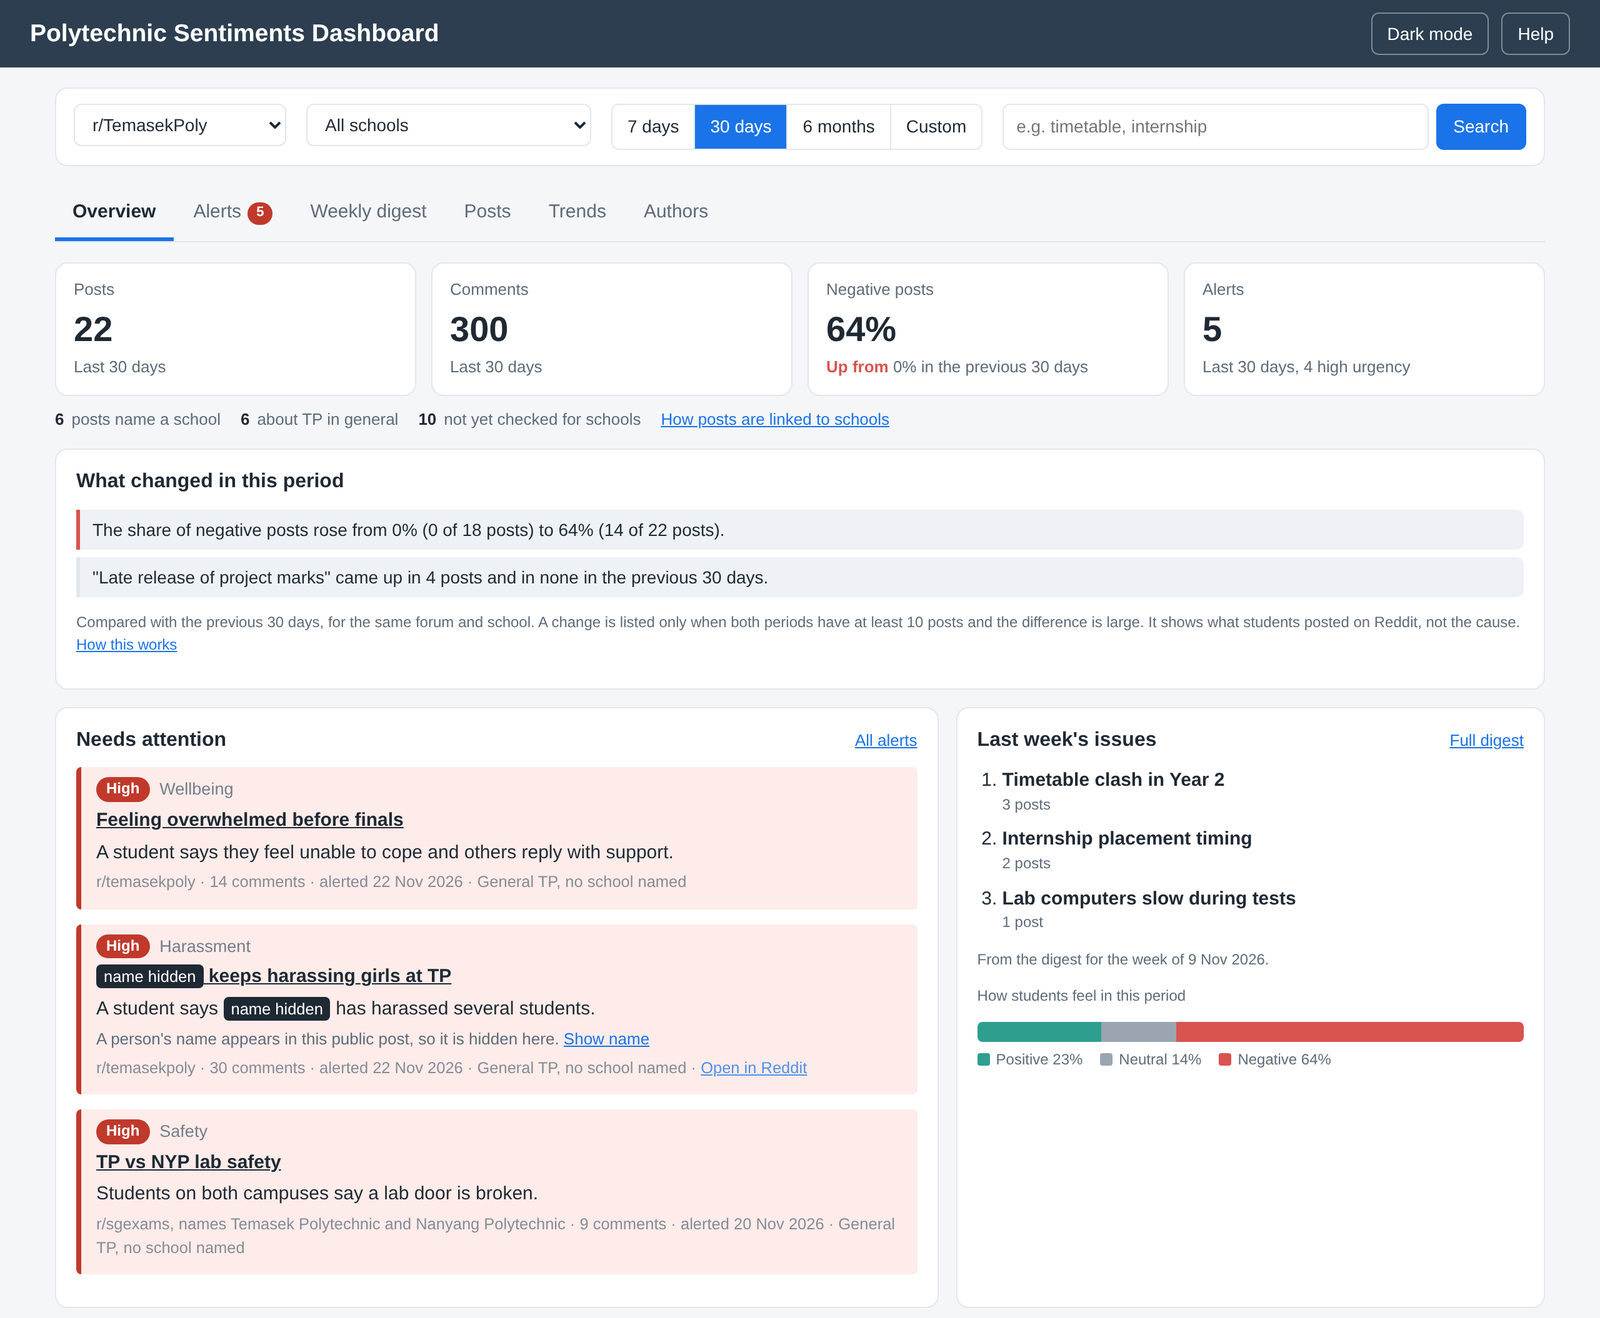
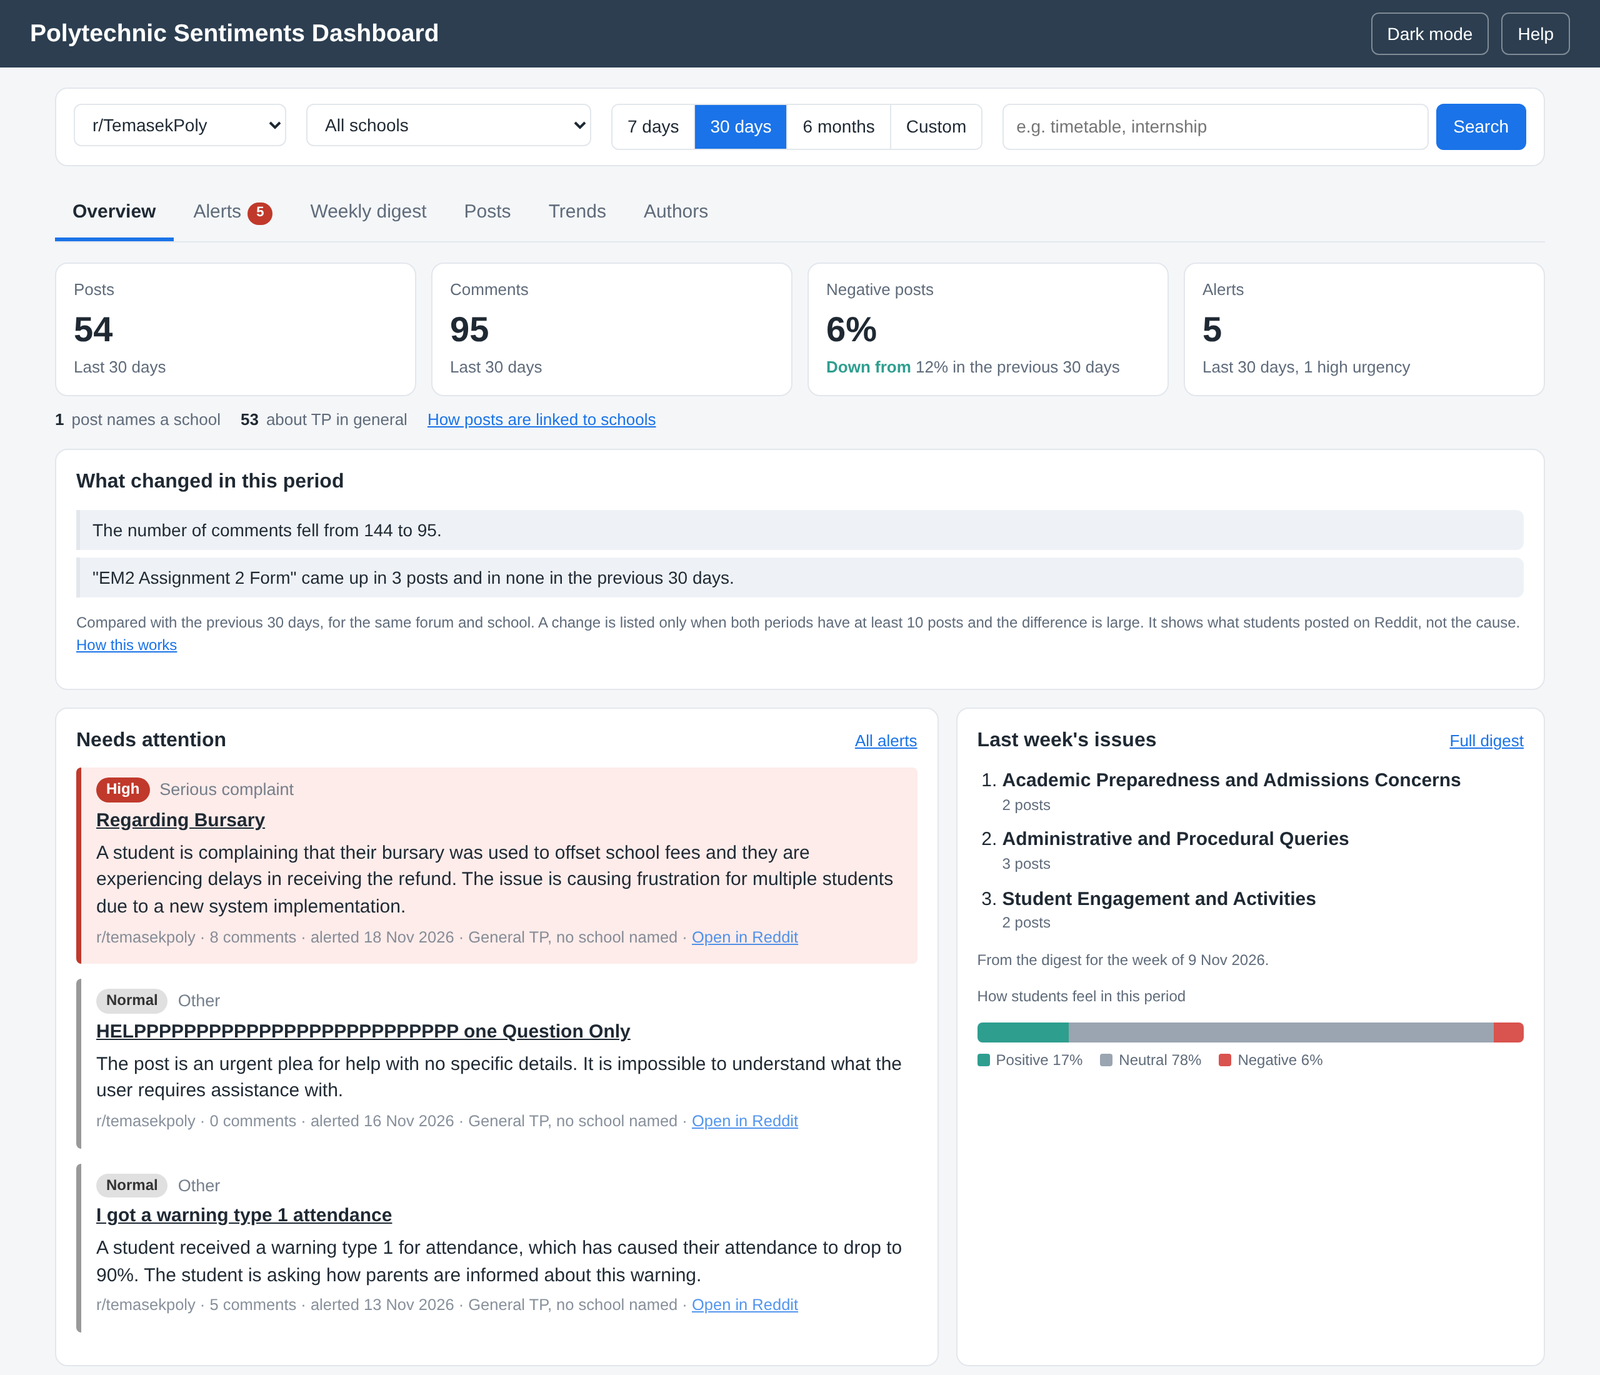
Help page: real screenshots and use by other polytechnics
The two pictures now show the live dashboard (r/TemasekPoly, 22 Nov 2026),
with the Reddit username blurred in the post panel. The page states that
the other polytechnics can use the dashboard, and how r/SGExams posts count.

Claude-Session: https://claude.ai/code/session_011AhNYgVDu8u4xkzmu5nZYU

diff --git a/about.html b/about.html
@@ -110,7 +110,7 @@
       <a href="#digest">Weekly digest</a>
       <a href="#post-view">Reading a post</a>
       <a href="#other-tabs">Posts, Trends and Authors</a>
-      <a href="#other-polys">Other polytechnics</a>
+      <a href="#other-polys">Other polytechnics and r/SGExams</a>
       <a href="#data">How the data is collected</a>
       <a href="#limits">Points to note</a>
     </nav>
@@ -122,6 +122,7 @@
       <section class="ui-card" id="about">
         <h2>What the dashboard is</h2>
         <p>The dashboard collects posts and comments once a day from selected Reddit forums relating to Singapore’s polytechnics. AI rates the sentiment of each post and comment, and the dashboard shows the results. It helps staff find posts and issues that may need attention.</p>
+        <p>The dashboard is not only for Temasek Polytechnic. It also covers the forums of Nanyang, Republic, Singapore and Ngee Ann Polytechnics, and r/SGExams, so staff of those polytechnics can use it too. See <a href="#other-polys">Other polytechnics and r/SGExams</a>.</p>
         <div class="help-note help-note--limit">
           <strong>Please keep in mind</strong>
           The dashboard shows what people posted on Reddit, as read by AI. It does not represent the views of all students, and its alerts and issues have not been independently verified. Read the post before acting on it.
@@ -167,7 +168,7 @@
         <p>The Overview is the first page. It covers the forum, school and period chosen in the toolbar.</p>
         <figure>
           <img src="images/help_overview.png" alt="The Overview page with figures, what changed, alerts and last week's issues" loading="lazy">
-          <figcaption>The Overview page (sample data, not real posts)</figcaption>
+          <figcaption>The Overview page for r/TemasekPoly, captured on 22 November 2026</figcaption>
         </figure>
 
         <h3>Figures at the top</h3>
@@ -275,7 +276,7 @@
         <p>Click an alert, a post in the digest or a post in a list. The post opens in a panel on the right of the same page, below the toolbar. The main page stays in place and can still be used. Click another post to change the panel, or close it with the X button or the Esc key. On a phone the panel takes the full screen and has a Back button.</p>
         <figure>
           <img src="images/help_post_panel.png" alt="A post opened in the panel beside the list of alerts" loading="lazy">
-          <figcaption>A post opened in the panel from the Alerts tab (sample data, not real posts)</figcaption>
+          <figcaption>A post opened in the panel from the Alerts tab, captured on 22 November 2026. The Reddit username is blurred in this picture.</figcaption>
         </figure>
         <p>The panel shows the AI summary, the post, and the comments with the sentiment of each. A bar shows how many comments are positive, neutral and negative. Search results, the posts of one day and the posts of one author open in the same panel.</p>
         <div class="help-table-wrap">
@@ -304,9 +305,17 @@
       </section>
 
       <section class="ui-card" id="other-polys">
-        <h2>Other polytechnics</h2>
-        <p>The forum list includes the forums of Nanyang, Republic, Singapore and Ngee Ann Polytechnics, and r/SGExams. Alerts and the weekly digest cover each polytechnic, so the Overview has the same parts for each forum.</p>
-        <p>A post on r/SGExams counts for a polytechnic only when it names that polytechnic by its full name or short form (TP, NYP, RP, SP or NP). The School filter and the digests by school apply to TP only.</p>
+        <h2>Other polytechnics and r/SGExams</h2>
+        <p>The dashboard can be used by every polytechnic, not only TP. Choose the polytechnic’s forum in the toolbar: r/nanyangpoly or r/NYP, r/republicpolytechnic, r/SingaporePoly or r/NgeeAnnPoly. The Overview, Alerts, Weekly digest, Posts, Trends and Authors tabs then show that polytechnic’s posts in the same way as for TP.</p>
+        <p>r/SGExams is a general forum for students in Singapore, so most of its posts are not about a polytechnic. You can choose it in the toolbar to see its posts. For alerts and the weekly digest, a post on r/SGExams counts for a polytechnic only when it names that polytechnic by its full name or short form (TP, NYP, RP, SP or NP). These posts are added to that polytechnic’s alerts and digest.</p>
+        <div class="help-note help-note--limit">
+          <strong>Limits</strong>
+          <ul>
+            <li>The School filter and the digests by school are available for TP only. Other polytechnics see figures for the whole polytechnic.</li>
+            <li>An r/SGExams post that names no polytechnic gets no alert.</li>
+            <li>The same points to note apply to every polytechnic: the content is Reddit posts read by AI, and it is not verified.</li>
+          </ul>
+        </div>
       </section>
 
       <section class="ui-card" id="data">
